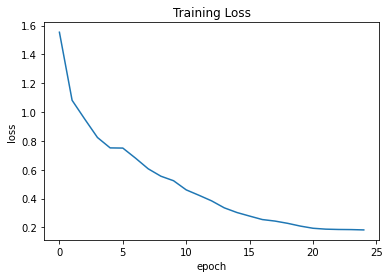
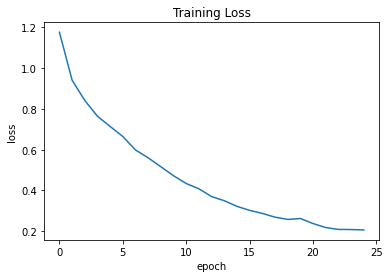
Added validation for deeplabv3+ (#629)
* Added validation for deeplabv3+

* Updated example

* Updated generated files

diff --git a/examples/vision/deeplabv3_plus.py b/examples/vision/deeplabv3_plus.py
@@ -56,10 +56,17 @@ IMAGE_SIZE = 512
 BATCH_SIZE = 4
 NUM_CLASSES = 20
 DATA_DIR = "./instance-level_human_parsing/instance-level_human_parsing/Training"
-MAX_IMAGES = 200
+NUM_TRAIN_IMAGES = 1000
+NUM_VAL_IMAGES = 50
 
-train_images = sorted(glob(os.path.join(DATA_DIR, "Images/*")))[:MAX_IMAGES]
-train_masks = sorted(glob(os.path.join(DATA_DIR, "Category_ids/*")))[:MAX_IMAGES]
+train_images = sorted(glob(os.path.join(DATA_DIR, "Images/*")))[:NUM_TRAIN_IMAGES]
+train_masks = sorted(glob(os.path.join(DATA_DIR, "Category_ids/*")))[:NUM_TRAIN_IMAGES]
+val_images = sorted(glob(os.path.join(DATA_DIR, "Images/*")))[
+    NUM_TRAIN_IMAGES : NUM_VAL_IMAGES + NUM_TRAIN_IMAGES
+]
+val_masks = sorted(glob(os.path.join(DATA_DIR, "Category_ids/*")))[
+    NUM_TRAIN_IMAGES : NUM_VAL_IMAGES + NUM_TRAIN_IMAGES
+]
 
 
 def read_image(image_path, mask=False):
@@ -89,8 +96,11 @@ def data_generator(image_list, mask_list):
     return dataset
 
 
-dataset = data_generator(train_images, train_masks)
-dataset
+train_dataset = data_generator(train_images, train_masks)
+val_dataset = data_generator(val_images, val_masks)
+
+print("Train Dataset:", train_dataset)
+print("Val Dataset:", val_dataset)
 
 """
 ## Building the DeepLabV3+ model
@@ -201,7 +211,8 @@ model.compile(
     loss=loss,
     metrics=["accuracy"],
 )
-history = model.fit(dataset, epochs=25)
+
+history = model.fit(train_dataset, validation_data=val_dataset, epochs=25)
 
 plt.plot(history.history["loss"])
 plt.title("Training Loss")
@@ -212,6 +223,18 @@ plt.show()
 plt.plot(history.history["accuracy"])
 plt.title("Training Accuracy")
 plt.ylabel("accuracy")
+plt.xlabel("epoch")
+plt.show()
+
+plt.plot(history.history["val_loss"])
+plt.title("Validation Loss")
+plt.ylabel("val_loss")
+plt.xlabel("epoch")
+plt.show()
+
+plt.plot(history.history["val_accuracy"])
+plt.title("Validation Accuracy")
+plt.ylabel("val_accuracy")
 plt.xlabel("epoch")
 plt.show()
 
@@ -283,4 +306,14 @@ def plot_predictions(images_list, colormap, model):
         )
 
 
+"""
+### Inference on Train Images
+"""
+
 plot_predictions(train_images[:4], colormap, model=model)
+
+"""
+### Inference on Validation Images
+"""
+
+plot_predictions(val_images[:4], colormap, model=model)

diff --git a/examples/vision/md/deeplabv3_plus.md b/examples/vision/md/deeplabv3_plus.md
@@ -1,3 +1,4 @@
+
 # Multiclass semantic segmentation using DeepLabV3+
 
 **Author:** [Soumik Rakshit](http://github.com/soumik12345)<br>
@@ -56,8 +57,8 @@ from tensorflow.keras import layers
 ```
 Downloading...
 From: https://drive.google.com/uc?id=1B9A9UCJYMwTL4oBEo4RZfbMZMaZhKJaz
-To: /content/keras-io/scripts/tmp_3778414/instance-level-human-parsing.zip
-2.91GB [00:21, 137MB/s]
+To: /content/keras-io/scripts/tmp_4374681/instance-level-human-parsing.zip
+2.91GB [00:36, 79.6MB/s]
 
 ```
 </div>
@@ -73,10 +74,17 @@ IMAGE_SIZE = 512
 BATCH_SIZE = 4
 NUM_CLASSES = 20
 DATA_DIR = "./instance-level_human_parsing/instance-level_human_parsing/Training"
-MAX_IMAGES = 200
+NUM_TRAIN_IMAGES = 1000
+NUM_VAL_IMAGES = 50
 
-train_images = sorted(glob(os.path.join(DATA_DIR, "Images/*")))[:MAX_IMAGES]
-train_masks = sorted(glob(os.path.join(DATA_DIR, "Category_ids/*")))[:MAX_IMAGES]
+train_images = sorted(glob(os.path.join(DATA_DIR, "Images/*")))[:NUM_TRAIN_IMAGES]
+train_masks = sorted(glob(os.path.join(DATA_DIR, "Category_ids/*")))[:NUM_TRAIN_IMAGES]
+val_images = sorted(glob(os.path.join(DATA_DIR, "Images/*")))[
+    NUM_TRAIN_IMAGES : NUM_VAL_IMAGES + NUM_TRAIN_IMAGES
+]
+val_masks = sorted(glob(os.path.join(DATA_DIR, "Category_ids/*")))[
+    NUM_TRAIN_IMAGES : NUM_VAL_IMAGES + NUM_TRAIN_IMAGES
+]
 
 
 def read_image(image_path, mask=False):
@@ -106,16 +114,17 @@ def data_generator(image_list, mask_list):
     return dataset
 
 
-dataset = data_generator(train_images, train_masks)
-dataset
+train_dataset = data_generator(train_images, train_masks)
+val_dataset = data_generator(val_images, val_masks)
+
+print("Train Dataset:", train_dataset)
+print("Val Dataset:", val_dataset)
 ```
-
-
-
 
 <div class="k-default-codeblock">
 ```
-<BatchDataset shapes: ((4, 512, 512, 3), (4, 512, 512, 1)), types: (tf.float32, tf.float32)>
+Train Dataset: <BatchDataset shapes: ((4, 512, 512, 3), (4, 512, 512, 1)), types: (tf.float32, tf.float32)>
+Val Dataset: <BatchDataset shapes: ((4, 512, 512, 3), (4, 512, 512, 1)), types: (tf.float32, tf.float32)>
 
 ```
 </div>
@@ -221,8 +230,8 @@ model.summary()
 <div class="k-default-codeblock">
 ```
 Downloading data from https://storage.googleapis.com/tensorflow/keras-applications/resnet/resnet50_weights_tf_dim_ordering_tf_kernels_notop.h5
-94773248/94765736 [==============================] - 0s 0us/step
-94781440/94765736 [==============================] - 0s 0us/step
+94773248/94765736 [==============================] - 1s 0us/step
+94781440/94765736 [==============================] - 1s 0us/step
 Model: "model"
 __________________________________________________________________________________________________
 Layer (type)                    Output Shape         Param #     Connected to                     
@@ -611,7 +620,8 @@ model.compile(
     loss=loss,
     metrics=["accuracy"],
 )
-history = model.fit(dataset, epochs=25)
+
+history = model.fit(train_dataset, validation_data=val_dataset, epochs=25)
 
 plt.plot(history.history["loss"])
 plt.title("Training Loss")
@@ -624,60 +634,72 @@ plt.title("Training Accuracy")
 plt.ylabel("accuracy")
 plt.xlabel("epoch")
 plt.show()
+
+plt.plot(history.history["val_loss"])
+plt.title("Validation Loss")
+plt.ylabel("val_loss")
+plt.xlabel("epoch")
+plt.show()
+
+plt.plot(history.history["val_accuracy"])
+plt.title("Validation Accuracy")
+plt.ylabel("val_accuracy")
+plt.xlabel("epoch")
+plt.show()
 ```
 
 <div class="k-default-codeblock">
 ```
 Epoch 1/25
-50/50 [==============================] - 44s 347ms/step - loss: 1.5536 - accuracy: 0.5857
+250/250 [==============================] - 115s 359ms/step - loss: 1.1765 - accuracy: 0.6424 - val_loss: 2.3559 - val_accuracy: 0.5960
 Epoch 2/25
-50/50 [==============================] - 18s 350ms/step - loss: 1.0815 - accuracy: 0.6661
+250/250 [==============================] - 92s 366ms/step - loss: 0.9413 - accuracy: 0.6998 - val_loss: 1.7349 - val_accuracy: 0.5593
 Epoch 3/25
-50/50 [==============================] - 18s 355ms/step - loss: 0.9506 - accuracy: 0.6974
+250/250 [==============================] - 93s 371ms/step - loss: 0.8415 - accuracy: 0.7310 - val_loss: 1.3097 - val_accuracy: 0.6281
 Epoch 4/25
-50/50 [==============================] - 18s 360ms/step - loss: 0.8234 - accuracy: 0.7383
+250/250 [==============================] - 93s 372ms/step - loss: 0.7640 - accuracy: 0.7552 - val_loss: 1.0175 - val_accuracy: 0.6885
 Epoch 5/25
-50/50 [==============================] - 18s 363ms/step - loss: 0.7513 - accuracy: 0.7606
+250/250 [==============================] - 93s 372ms/step - loss: 0.7139 - accuracy: 0.7706 - val_loss: 1.2226 - val_accuracy: 0.6107
 Epoch 6/25
-50/50 [==============================] - 18s 365ms/step - loss: 0.7500 - accuracy: 0.7607
+250/250 [==============================] - 93s 373ms/step - loss: 0.6647 - accuracy: 0.7867 - val_loss: 0.8583 - val_accuracy: 0.7178
 Epoch 7/25
-50/50 [==============================] - 18s 366ms/step - loss: 0.6802 - accuracy: 0.7825
+250/250 [==============================] - 94s 375ms/step - loss: 0.5986 - accuracy: 0.8080 - val_loss: 0.9724 - val_accuracy: 0.7135
 Epoch 8/25
-50/50 [==============================] - 18s 368ms/step - loss: 0.6063 - accuracy: 0.8058
+250/250 [==============================] - 93s 372ms/step - loss: 0.5599 - accuracy: 0.8212 - val_loss: 0.9722 - val_accuracy: 0.7064
 Epoch 9/25
-50/50 [==============================] - 19s 370ms/step - loss: 0.5549 - accuracy: 0.8215
+250/250 [==============================] - 93s 372ms/step - loss: 0.5161 - accuracy: 0.8364 - val_loss: 0.9023 - val_accuracy: 0.7471
 Epoch 10/25
-50/50 [==============================] - 19s 371ms/step - loss: 0.5235 - accuracy: 0.8336
+250/250 [==============================] - 93s 373ms/step - loss: 0.4719 - accuracy: 0.8515 - val_loss: 0.8803 - val_accuracy: 0.7540
 Epoch 11/25
-50/50 [==============================] - 19s 374ms/step - loss: 0.4600 - accuracy: 0.8553
+250/250 [==============================] - 93s 372ms/step - loss: 0.4337 - accuracy: 0.8636 - val_loss: 0.9682 - val_accuracy: 0.7377
 Epoch 12/25
-50/50 [==============================] - 19s 376ms/step - loss: 0.4227 - accuracy: 0.8688
+250/250 [==============================] - 93s 373ms/step - loss: 0.4079 - accuracy: 0.8718 - val_loss: 0.9586 - val_accuracy: 0.7551
 Epoch 13/25
-50/50 [==============================] - 19s 379ms/step - loss: 0.3839 - accuracy: 0.8817
+250/250 [==============================] - 93s 373ms/step - loss: 0.3694 - accuracy: 0.8856 - val_loss: 0.9676 - val_accuracy: 0.7606
 Epoch 14/25
-50/50 [==============================] - 19s 381ms/step - loss: 0.3354 - accuracy: 0.8977
+250/250 [==============================] - 93s 373ms/step - loss: 0.3493 - accuracy: 0.8913 - val_loss: 0.8375 - val_accuracy: 0.7706
 Epoch 15/25
-50/50 [==============================] - 19s 384ms/step - loss: 0.3029 - accuracy: 0.9080
+250/250 [==============================] - 93s 373ms/step - loss: 0.3217 - accuracy: 0.9008 - val_loss: 0.9956 - val_accuracy: 0.7469
 Epoch 16/25
-50/50 [==============================] - 19s 385ms/step - loss: 0.2782 - accuracy: 0.9168
+250/250 [==============================] - 93s 372ms/step - loss: 0.3018 - accuracy: 0.9075 - val_loss: 0.9614 - val_accuracy: 0.7474
 Epoch 17/25
-50/50 [==============================] - 19s 384ms/step - loss: 0.2542 - accuracy: 0.9239
+250/250 [==============================] - 93s 372ms/step - loss: 0.2870 - accuracy: 0.9122 - val_loss: 0.9652 - val_accuracy: 0.7626
 Epoch 18/25
-50/50 [==============================] - 19s 383ms/step - loss: 0.2436 - accuracy: 0.9271
+250/250 [==============================] - 93s 373ms/step - loss: 0.2685 - accuracy: 0.9182 - val_loss: 0.8913 - val_accuracy: 0.7824
 Epoch 19/25
-50/50 [==============================] - 19s 382ms/step - loss: 0.2279 - accuracy: 0.9331
+250/250 [==============================] - 93s 373ms/step - loss: 0.2574 - accuracy: 0.9216 - val_loss: 1.0205 - val_accuracy: 0.7417
 Epoch 20/25
-50/50 [==============================] - 19s 382ms/step - loss: 0.2088 - accuracy: 0.9385
+250/250 [==============================] - 93s 372ms/step - loss: 0.2619 - accuracy: 0.9199 - val_loss: 0.9237 - val_accuracy: 0.7788
 Epoch 21/25
-50/50 [==============================] - 19s 383ms/step - loss: 0.1938 - accuracy: 0.9430
+250/250 [==============================] - 93s 372ms/step - loss: 0.2372 - accuracy: 0.9280 - val_loss: 0.9076 - val_accuracy: 0.7796
 Epoch 22/25
-50/50 [==============================] - 19s 383ms/step - loss: 0.1875 - accuracy: 0.9446
+250/250 [==============================] - 93s 372ms/step - loss: 0.2175 - accuracy: 0.9344 - val_loss: 0.9797 - val_accuracy: 0.7742
 Epoch 23/25
-50/50 [==============================] - 19s 383ms/step - loss: 0.1854 - accuracy: 0.9450
+250/250 [==============================] - 93s 372ms/step - loss: 0.2084 - accuracy: 0.9370 - val_loss: 0.9981 - val_accuracy: 0.7870
 Epoch 24/25
-50/50 [==============================] - 19s 384ms/step - loss: 0.1845 - accuracy: 0.9448
+250/250 [==============================] - 93s 373ms/step - loss: 0.2077 - accuracy: 0.9370 - val_loss: 1.0494 - val_accuracy: 0.7767
 Epoch 25/25
-50/50 [==============================] - 19s 382ms/step - loss: 0.1823 - accuracy: 0.9455
+250/250 [==============================] - 93s 372ms/step - loss: 0.2059 - accuracy: 0.9377 - val_loss: 0.9640 - val_accuracy: 0.7651
 
 ```
 </div>
@@ -686,6 +708,14 @@ Epoch 25/25
 
 
 ![png](/img/examples/vision/deeplabv3_plus/deeplabv3_plus_12_2.png)
+
+
+
+![png](/img/examples/vision/deeplabv3_plus/deeplabv3_plus_12_3.png)
+
+
+
+![png](/img/examples/vision/deeplabv3_plus/deeplabv3_plus_12_4.png)
 
 
 ---
@@ -756,22 +786,50 @@ def plot_predictions(images_list, colormap, model):
             [image_tensor, overlay, prediction_colormap], figsize=(18, 14)
         )
 
+```
 
+### Inference on Train Images
+
+
+```python
 plot_predictions(train_images[:4], colormap, model=model)
 ```
 
 
-![png](/img/examples/vision/deeplabv3_plus/deeplabv3_plus_14_0.png)
+![png](/img/examples/vision/deeplabv3_plus/deeplabv3_plus_16_0.png)
 
 
 
-![png](/img/examples/vision/deeplabv3_plus/deeplabv3_plus_14_1.png)
+![png](/img/examples/vision/deeplabv3_plus/deeplabv3_plus_16_1.png)
 
 
 
-![png](/img/examples/vision/deeplabv3_plus/deeplabv3_plus_14_2.png)
+![png](/img/examples/vision/deeplabv3_plus/deeplabv3_plus_16_2.png)
 
 
 
-![png](/img/examples/vision/deeplabv3_plus/deeplabv3_plus_14_3.png)
+![png](/img/examples/vision/deeplabv3_plus/deeplabv3_plus_16_3.png)
+
+
+### Inference on Validation Images
+
+
+```python
+plot_predictions(val_images[:4], colormap, model=model)
+```
+
+
+![png](/img/examples/vision/deeplabv3_plus/deeplabv3_plus_18_0.png)
+
+
+
+![png](/img/examples/vision/deeplabv3_plus/deeplabv3_plus_18_1.png)
+
+
+
+![png](/img/examples/vision/deeplabv3_plus/deeplabv3_plus_18_2.png)
+
+
+
+![png](/img/examples/vision/deeplabv3_plus/deeplabv3_plus_18_3.png)
 
